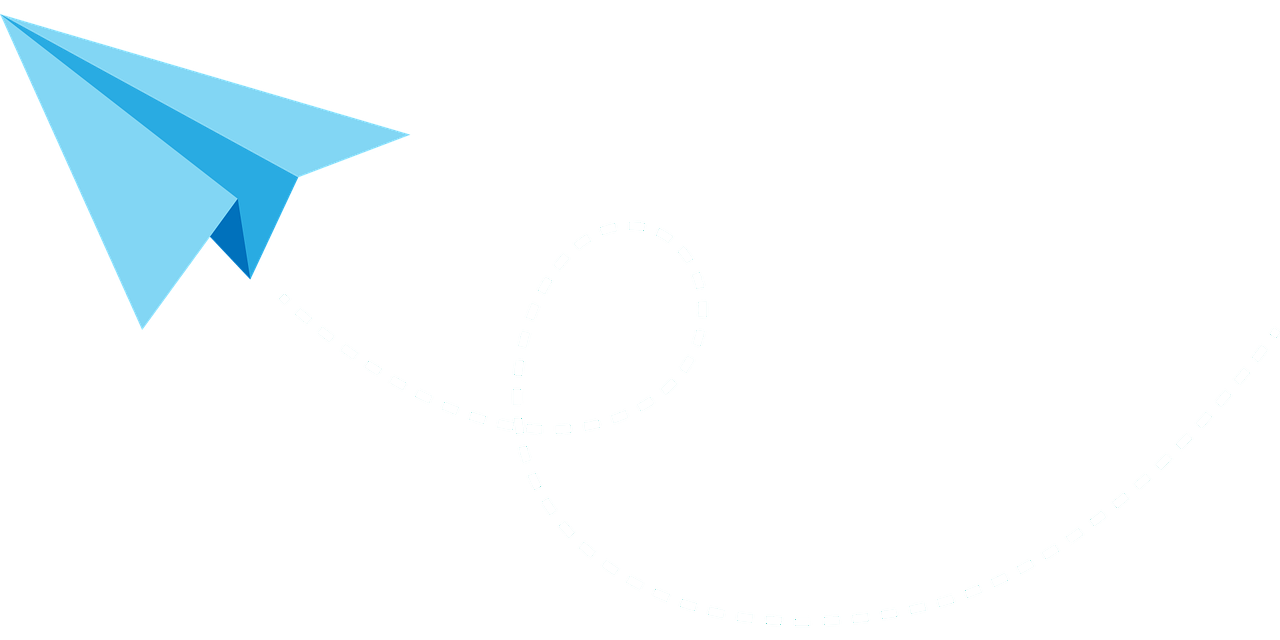
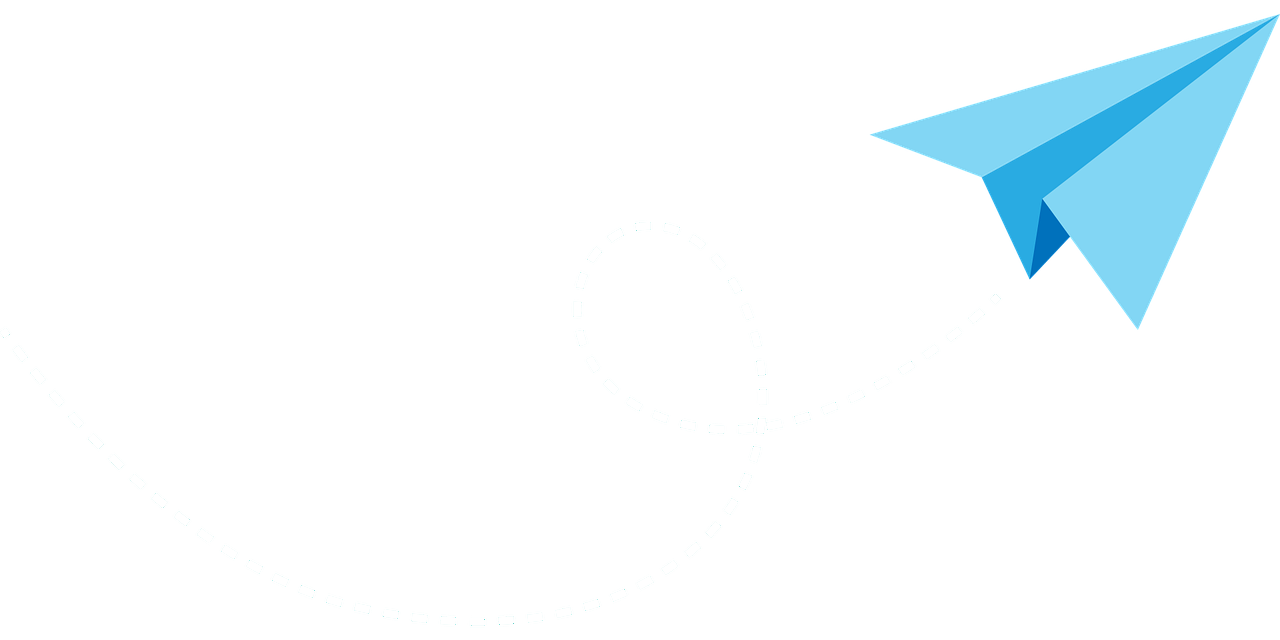
이미지 수정

Changed region(s): [[0.6875, 0.0312, 1.0, 0.5], [0.0, 0.0312, 0.3125, 0.5]]

diff --git a/mypage/css/index.css b/mypage/css/index.css
@@ -51,11 +51,11 @@
   .airplane{
     padding: 0;
     margin: 0;
-    width:350px; 
-    height:250px; 
+    width:850px; 
+    height:450px; 
     position: fixed; 
-    right:600px; 
-    bottom:400px
+    right:150px; 
+    bottom:50px
   }
   
 

diff --git a/mypage/index.html b/mypage/index.html
@@ -63,7 +63,7 @@
             </div>
 
             <div class="airplane" >
-              <img src="img/paper2.png" >
+              <img class="airplane" src="img/paper2.png" >
             </div>
          
 
